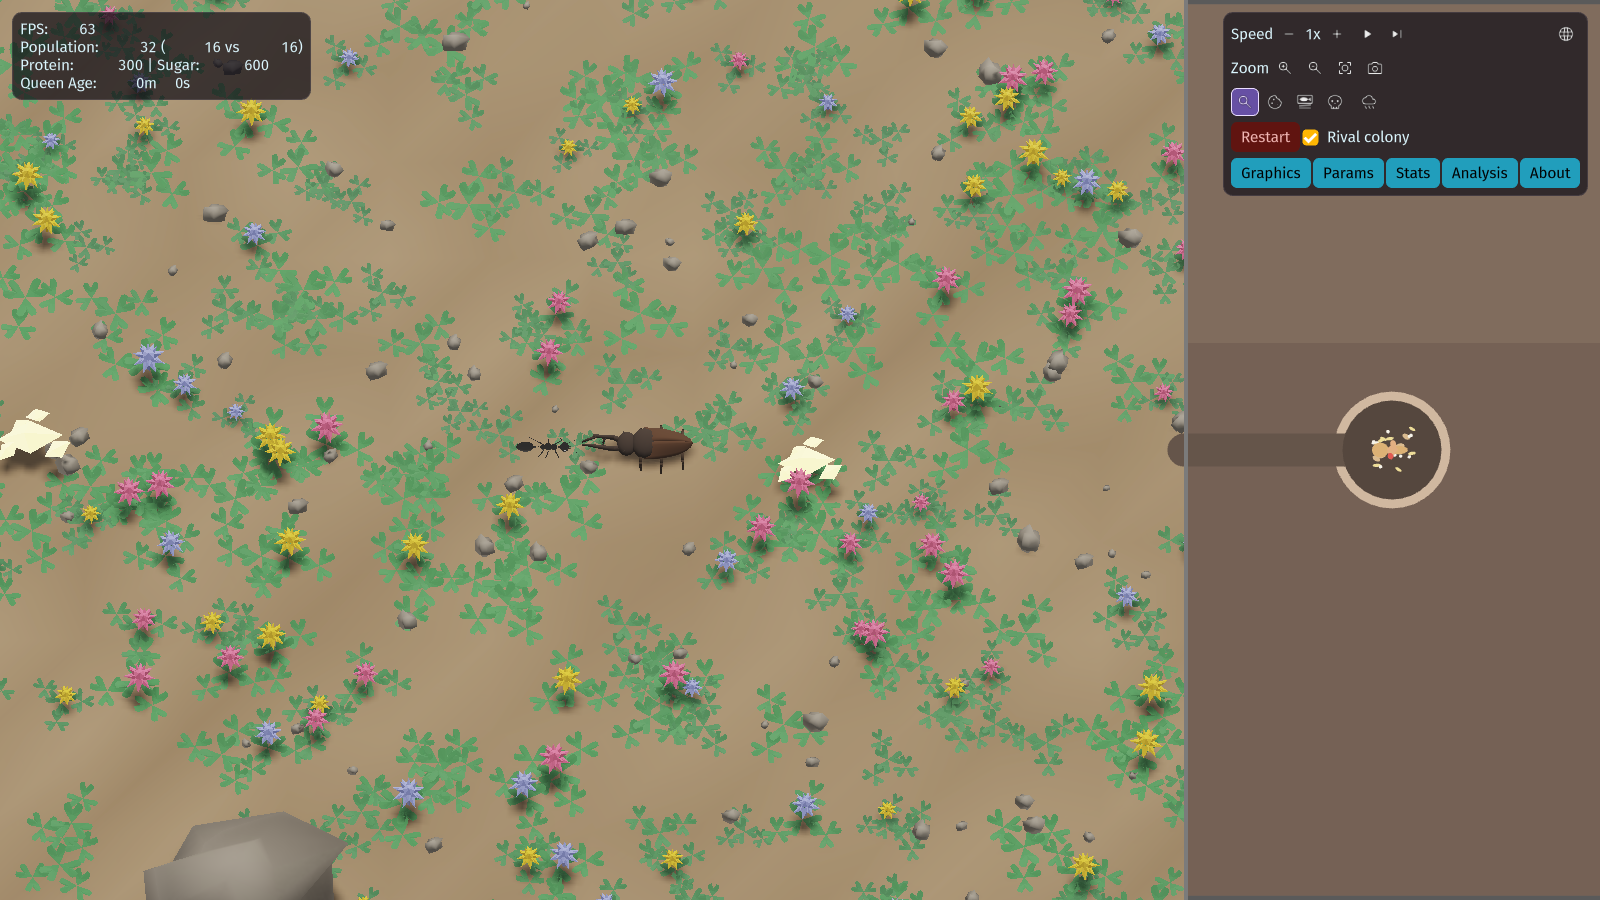
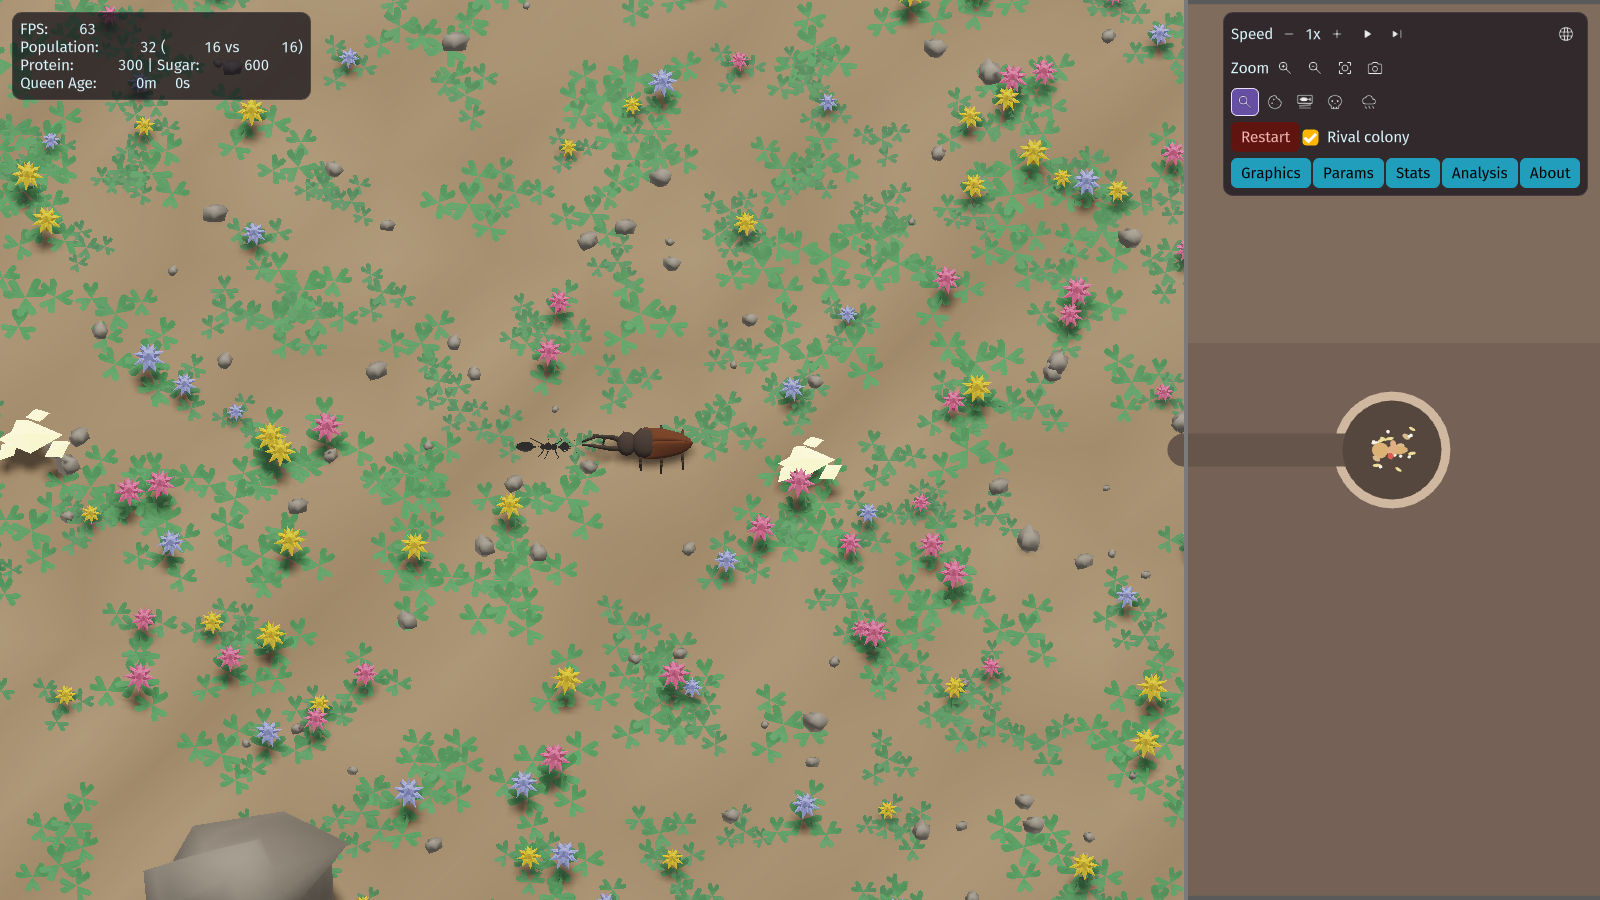
fix(render3d): 甲蟲鞘翅斑紋 beetleMark 改紅棕，亮度不變 (#81)

diff --git a/koolApp/src/desktopTest/kotlin/com/neojou/myants/render3d/ChitinSheenTest.kt b/koolApp/src/desktopTest/kotlin/com/neojou/myants/render3d/ChitinSheenTest.kt
@@ -42,4 +42,14 @@ class ChitinSheenTest {
         assertTrue(WorldPalette.topDownSheen(0.55f) > critterTint(InsectKind.BEETLE).body.r, "old 0.55 peak buried the body")
         assertEquals(0.55f, WorldPalette.critterBodyRoughness(InsectKind.LADYBUG))
     }
+
+    @Test
+    fun beetleMarkIsRedBrownAtUnchangedLuminance() {
+        // #89 Artist review: separate the elytra mark from the body by hue/chroma, not by brightness.
+        val m = critterTint(InsectKind.BEETLE).mark
+        val y = 0.2126f * m.r + 0.7152f * m.g + 0.0722f * m.b
+        assertTrue(kotlin.math.abs(y - 0.0810f) < 0.002f, "mark luminance $y")
+        assertTrue(m.r > 8f * m.b, "mark must be saturated red-brown: $m")
+        assertTrue(m.r / m.g > 2f * (critterTint(InsectKind.BEETLE).body.r / critterTint(InsectKind.BEETLE).body.g))
+    }
 }

diff --git a/koolApp/src/commonMain/kotlin/com/neojou/myants/render3d/WorldPalette.kt b/koolApp/src/commonMain/kotlin/com/neojou/myants/render3d/WorldPalette.kt
@@ -141,7 +141,7 @@ object WorldPalette {
     val spiderLeg = Color(0.22f, 0.22f, 0.24f, 1f)
     val beetleLeg = Color(0.10f, 0.07f, 0.05f, 1f)
     val ladybugLeg = Color(0.12f, 0.08f, 0.08f, 1f)
-    val beetleMark = Color(0.13f, 0.07f, 0.045f, 1f)
+    val beetleMark = Color(0.17f, 0.06f, 0.02f, 1f)
 
     val cloverPetals = arrayOf(petalRose, petalGold, petalLilac)
     val petals = arrayOf(petalRose, petalGold, petalLilac, petalWhite)

diff --git a/docs/screenshots/81-beetle/measure.py b/docs/screenshots/81-beetle/measure.py
@@ -1,6 +1,10 @@
 # 用法：python3 measure.py 預設.png ...   或   python3 measure.py --beetle 甲蟲.png ...
+# --beetle 另外輸出：斑紋框 x660–685,y435–450、前胸框 x642–654,y432–452 的中位數，斑紋對前胸 CIEDE2000 ΔE，各自對地面的對比。
 # D1/D2 與 79-chitin/measure.py 相同；D3 = 甲蟲身體（固定框內 L<0.15 像素中位數）對地面（固定地面框中位數）。
 import sys,numpy as np
+from skimage.color import rgb2lab,deltaE_ciede2000
+def lab(c):return rgb2lab(np.asarray(c,float).reshape(1,1,3)/255.)[0,0]
+def de(a,b):return float(deltaE_ciede2000(lab(a),lab(b)))
 from PIL import Image
 def L(c):
   c=np.asarray(c)/255.;c=np.where(c<=.04045,c/12.92,((c+.055)/1.055)**2.4);return c@[.2126,.7152,.0722]
@@ -11,7 +15,9 @@ for f in [a for a in sys.argv[1:] if a!='--beetle']:
   if beetle:
     b=im[422:462,615:695].reshape(-1,3);body=b[L(b)<0.15];bm=np.median(body,0)
     g=np.median(im[470:500,700:740].reshape(-1,3),0)
-    print(f,'body',bm.astype(int),'gnd',g.astype(int),'px',len(body),'D3=%.2f'%cr(L(bm),L(g)));continue
+    print(f,'body',bm.astype(int),'gnd',g.astype(int),'px',len(body),'D3=%.2f'%cr(L(bm),L(g)))
+    mk=np.median(im[435:450,660:685].reshape(-1,3),0);pr=np.median(im[432:452,642:654].reshape(-1,3),0)
+    print('  mark',mk.astype(int),'%.2f:1'%cr(L(mk),L(g)),'pronotum',pr.astype(int),'%.2f:1'%cr(L(pr),L(g)),'dE00 mark-pronotum=%.1f'%de(mk,pr));continue
   a=im[420:470,505:600].reshape(-1,3);la=L(a)
   ant=np.median(a[la<=np.percentile(la,10)],0);gnd=np.median(a[la>=np.percentile(la,60)],0)
   b=im[395:480,590:680].reshape(-1,3);red=(b[:,0]>1.8*b[:,1])&(b[:,0]>120)

diff --git a/CHANGELOG.md b/CHANGELOG.md
@@ -12,7 +12,7 @@
 - headless 固定構圖截圖模式 `shot=specimen`（瀏覽器 `?shot=specimen`、桌面 `--shot=specimen`）：正午光、zoom 6、相機固定在世界 (420, 300)，把一隻工蟻和一隻瓢蟲擺在畫面中央，模擬開場就暫停、自動運鏡關閉（只在記憶體，不寫入設定）。同 seed 連拍兩次瓢蟲像素完全相同，供 #68 D1、D2、E2 量測。只在 `shot=specimen` 時生效，一般執行的模擬行為不變（Closes #76）
 
 ### 修正
-- 甲蟲身體與斑紋改霧面（身體 roughness 0.55→1.0、斑紋 0.22→1.0、beetle.glb chitin 0.35→1.0），殼色不變；俯視正午高光不再把甲蟲洗淡，身體對地面 2.90→3.28:1（Closes #81）
+- 甲蟲身體與斑紋改霧面（身體 roughness 0.55→1.0、斑紋 0.22→1.0、beetle.glb chitin 0.35→1.0），殼色不變；甲蟲鞘翅斑紋 `beetleMark` 改成紅棕 (0.13,0.07,0.045)→(0.17,0.06,0.02)，亮度不變、和身體分得開；俯視正午高光不再把甲蟲洗淡，身體對地面 2.90→3.28:1（Closes #81）
 - 設定裡的蟻色（antColor）對室外 glTF 蟻沒有作用（#82）：colony 0 的甲殼改由 `WorldPalette.outdoorChitin(antColor)` 決定。預設的銅色仍是黑甲殼（預設畫面與 D1 不變），其他色票改用 sRGB→linear 後的值；兵蟻頭維持紅色標記，對手蟻群不受影響（Closes #82）
 - 三葉草花與葉、地面材質改成 #75 美術目標值：花 rose (0.95,0.22,0.42)、gold (1.00,0.70,0.06)、lilac (0.40,0.46,1.00)，花瓣 roughness 0.85；葉 simGrass (0.11,0.32,0.15)、scatterGrass 同色系（亮度 ±0.04），草葉 roughness 0.70；莖 (0.22,0.38,0.14)；地面 `soil(n)` = (0.34+0.10n, 0.25+0.08n, 0.16+0.06n)。已確認 kool 的 instance 色與地面貼圖（gamma 1）都不做 sRGB→linear 轉換，數值直接當 linear albedo；美術的校正是以舊數值的同一種寫法算的，所以沿用同一種寫法。執行時的顏色只由 `WorldPalette` 提供，三葉草 glb 的 baseColor／roughness 用 `tools/glb_palette.py` 同步（Closes #75）
 - 室外工蟻／兵蟻渲染成淺灰（#79 D1）：根因是材質，不是顏色。俯視相機與正午太陽都接近垂直，每個朝上的面都在 GGX 高光峰上；甲殼 roughness 0.42 時峰值等於約 0.32 的灰色反照率，蓋過 0.07 的黑甲殼（把甲殼改成紅色，畫面仍是淺灰，就是這個原因）。蟻身、頭、顎、腳與瓢蟲黑點、其他昆蟲的腳改用 `WorldPalette.CHITIN_ROUGHNESS` 1.0、metallic 0，峰值降到約 0.01（0.80 實測仍只有 2.2:1）。瓢蟲黑點（#79 D2）光靠環境光就被抬到約 2.6:1，與 roughness 無關，改用 `WorldPalette.ladybugSpot` (0.012,0.008,0.008)，specimen 實測 D2 3.31。工蟻、兵蟻與瓢蟲 glb 的材質用 `tools/glb_palette.py` 同步（Closes #79）
